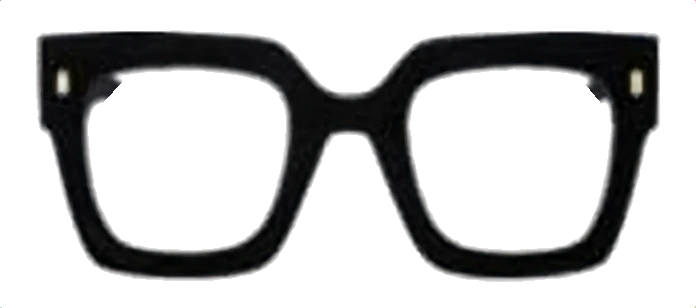
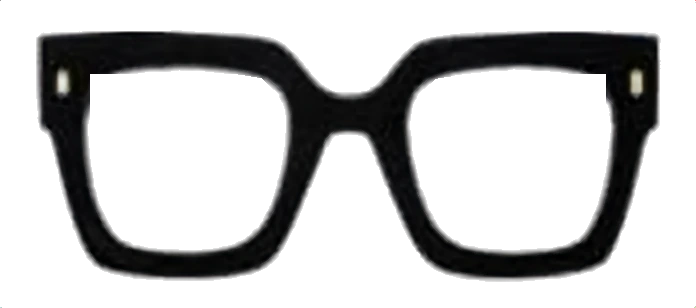
Recuperar las esquinas de mica que tapan las varillas
La máscara de mica (y la versión sin varillas del probador) ahora llega
hasta el aro: dentro de la caja de cada mica, unida con el reflejo de la
otra, se toma el contorno exterior menos el grosor del aro.

Claude-Session: https://claude.ai/code/session_0193sDiyPrWosCDUvz785SZ4

Changed region(s): [[0.1207, 0.2338, 0.181, 0.3506], [0.8147, 0.2338, 0.875, 0.3506], [0.3319, 0.2338, 0.3922, 0.263]]

diff --git a/sarabia-eyewear/lib/framePhotos.ts b/sarabia-eyewear/lib/framePhotos.ts
@@ -8,9 +8,9 @@ export const framePhotos: Record<string, ProductPhoto> = {
   "roma-vino-cafe": {front: "/frames/roma-vino-cafe.webp", width: 832, height: 296, lensCenters: [[0.251, 0.382], [0.746, 0.382]]},
   "tulum-oro-verde": {front: "/frames/tulum-oro-verde.webp", width: 792, height: 260, lensCenters: [[0.257, 0.502], [0.74, 0.502]]},
   "tulum-negro-oro": {front: "/frames/tulum-negro-oro.webp", width: 828, height: 248, lensCenters: [[0.263, 0.484], [0.74, 0.486]]},
-  "mateo-carey": {front: "/frames/mateo-carey.webp", width: 808, height: 300, lensCenters: [[0.289, 0.477], [0.718, 0.485]], tryOn: "/frames/mateo-carey-tryon.webp", lensMask: "/frames/mateo-carey-lens.png", lensBoxes: [[0.151, 0.15, 0.426, 0.817], [0.573, 0.15, 0.869, 0.827]]},
-  "mateo-negro": {front: "/frames/mateo-negro.webp", width: 696, height: 308, lensCenters: [[0.268, 0.51], [0.734, 0.507]], tryOn: "/frames/mateo-negro-tryon.webp", lensMask: "/frames/mateo-negro-lens.png", lensBoxes: [[0.126, 0.227, 0.409, 0.808], [0.589, 0.224, 0.876, 0.808]]},
-  "valeria-verde": {front: "/frames/valeria-verde.webp", width: 760, height: 256, lensCenters: [[0.287, 0.579], [0.74, 0.544]], tryOn: "/frames/valeria-verde-tryon.webp", lensMask: "/frames/valeria-verde-lens.png", lensBoxes: [[0.158, 0.242, 0.42, 0.922], [0.566, 0.188, 0.901, 0.922]]},
+  "mateo-carey": {front: "/frames/mateo-carey.webp", width: 808, height: 300, lensCenters: [[0.279, 0.466], [0.723, 0.474]], tryOn: "/frames/mateo-carey-tryon.webp", lensMask: "/frames/mateo-carey-lens.png", lensBoxes: [[0.129, 0.15, 0.426, 0.817], [0.572, 0.15, 0.869, 0.827]]},
+  "mateo-negro": {front: "/frames/mateo-negro.webp", width: 696, height: 308, lensCenters: [[0.264, 0.496], [0.736, 0.497]], tryOn: "/frames/mateo-negro-tryon.webp", lensMask: "/frames/mateo-negro-lens.png", lensBoxes: [[0.122, 0.224, 0.409, 0.808], [0.589, 0.224, 0.876, 0.808]]},
+  "valeria-verde": {front: "/frames/valeria-verde.webp", width: 760, height: 256, lensCenters: [[0.263, 0.528], [0.734, 0.523]], tryOn: "/frames/valeria-verde-tryon.webp", lensMask: "/frames/valeria-verde-lens.png", lensBoxes: [[0.096, 0.211, 0.432, 0.922], [0.566, 0.188, 0.901, 0.922]]},
   "costa-carey-g15": {front: "/frames/costa-carey-g15.webp", width: 748, height: 292, lensCenters: [[0.266, 0.52], [0.734, 0.519]]},
   "costa-negro-humo": {front: "/frames/costa-negro-humo.webp", width: 756, height: 284, lensCenters: [[0.271, 0.433], [0.737, 0.433]]},
   "costa-carey-degradado": {front: "/frames/costa-carey-degradado.webp", width: 1236, height: 428, lensCenters: [[0.257, 0.494], [0.744, 0.494]]},

diff --git a/sarabia-eyewear/scripts/cutout_frames.py b/sarabia-eyewear/scripts/cutout_frames.py
@@ -176,8 +176,32 @@ def cutout(rgb, band=4):
             ys, xs = np.where(r)
             (left if xs.mean() < w / 2 else right).__ior__(r)
         if left.sum() > 0.04 * h * w and right.sum() > 0.04 * h * w:
-            lens_regions = [hull_mask(left, (h, w)), hull_mask(right, (h, w))]
+            outline = ndimage.binary_fill_holes(~np.isin(labels, list(border)))
+            lens_regions = refine_lenses([hull_mask(left, (h, w)), hull_mask(right, (h, w))], left | right, outline)
     return rgba, lens_regions
+
+
+def refine_lenses(hulls, holes, outline):
+    """Recupera la parte de la mica que tapa una varilla. Las micas son simétricas: la caja de cada una
+    abarca lo que se ve de ella y el reflejo de la otra; dentro de esa caja, la mica llega hasta el aro
+    (contorno exterior menos el grosor del aro), así se recuperan también las esquinas tapadas."""
+    h, w = outline.shape
+    depth = ndimage.distance_transform_edt(outline)
+    edge = holes & ~ndimage.binary_erosion(holes)
+    rim = np.percentile(depth[edge], 30)  # grosor típico del aro (orilla exterior → mica)
+    # Eje de simetría medido a la altura de las micas (las puntas de las varillas no cuentan)
+    rows = np.where((hulls[0] | hulls[1]).any(axis=1))[0]
+    band = outline[rows.min():rows.max() + 1]
+    cols = np.where(band.any(axis=0))[0]
+    axis = (cols.min() + cols.max()) / 2
+    src = np.clip(np.round(2 * axis - np.arange(w)).astype(int), 0, w - 1)
+    refined = []
+    for i, hull in enumerate(hulls):
+        ys, xs = np.where(hull | hulls[1 - i][:, src])
+        box = np.zeros_like(hull)
+        box[ys.min():ys.max() + 1, xs.min():xs.max() + 1] = True
+        refined.append(hull | (box & (depth > rim * 1.05)))
+    return refined
 
 
 def lens_geometry(rgba, lens_regions):
